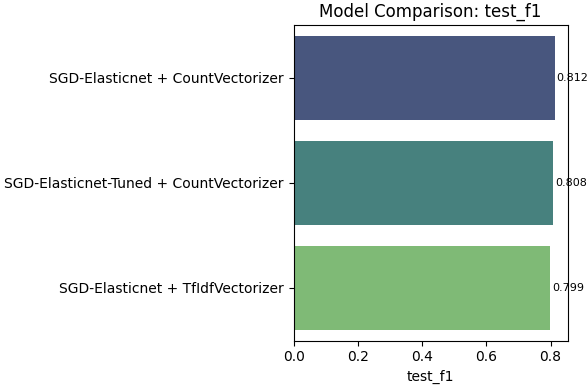
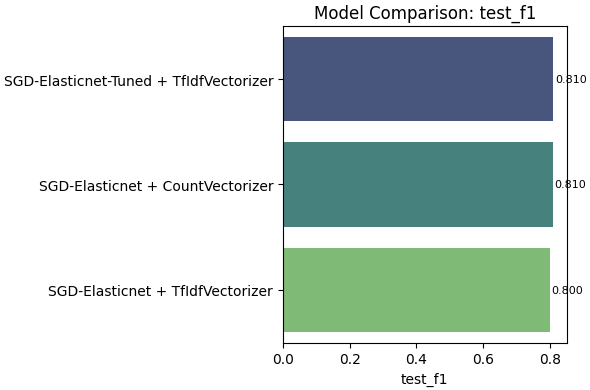
elasticNet: Update results, add inference & training time documentation

Changed region(s): [[0.0, 0.0, 1.0, 1.0]]

diff --git a/documentation.md b/documentation.md
@@ -168,33 +168,37 @@ The Elastic Net model was trained on the training set and evaluated on the test 
 
 ##### Precision
 
-The highest test precision was achived with a Count Vectorizer and SGDClassifier, and with the tuned hyperparameters. The precision of the different models ranged from 0.752 and 0.764.
+The highest test precision was achived with a Count Vectorizer and SGDClassifier, and with the tuned hyperparameters. The precision of the different models ranged from 0.750 and 0.773.
 
 <img src="resources/elasticNet_precision.png" height="300" />
 
 ##### Recall
 
-The highest test recall wias achived with the Count Vectorizer and the SGDClassifier. The model with the tuned hyperparameters achived a recall slightly lower than the model with the default hyperparameters. The recall of the different models ranged from 0.852 and 0.867.
+The highest test recall wias achived with the Count Vectorizer and the SGDClassifier. The model with the tuned hyperparameters achived a recall slightly lower than the model with the default hyperparameters. The recall of the different models ranged from 0.849 and 0.857.
 
 <img src="resources/elasticNet_recall.png" height="300" />
 
 ##### F1-Score
 
-The highest f1-score was achived with the Count Vectorizer and the SGDClassifier, without tuning the hyperparameters. The f1-score of the different models ranged from 0.799 and 0.812.
+The highest f1-score was achived with the Count Vectorizer and the SGDClassifier and the TF-IDF Vectorizer with a tuned SGDClassifier. The f1-score of the different models ranged from 0.8 and 0.81.
 
 <img src="resources/elasticNet_f1.png" height="300" />
 
 ##### Training Time
 
-TODO Text
+The training time of the different models show no significant differences and are close to the fastest model of the Bag-of-Words approach. This makes sense, as the models are close to the Bag-of-Words models, but with a different regularization technique.
+
+<img src="resources/elasticNet_training_time.png" height="300" />
 
 ##### Inference Time
 
-TODO Text
+The inference time is in a similar range as the inference time of the Bag-of-Words models, below one second for all models.
+
+<img src="resources/elasticNet_inference_time.png" height="300" />
 
 ##### Summary
 
-Among all tested configurations, the Count Vectorizer proved to be the better performing vectorization technique. The differences between the models were not significant, tuning the hyperparameters of the SGDClassifier did not lead to a significant improvement in performance. The best performing model was the SGDClassifier with Count Vectorization, achieving a precision of 0.764, a recall of 0.867 and an f1-score of 0.812.
+Among all tested configurations, the Count Vectorizer proved to be the better performing vectorization technique. The differences between the models were not significant, tuning the hyperparameters of the SGDClassifier did not lead to a significant improvement in performance. The best performing model was the SGDClassifier with Count Vectorization, achieving a precision of 0.773, a recall of 0.857 and an f1-score of 0.81.
 
 > The source code for the Elastic Net model can be found in the [elasticNet.ipynb](models/elasticNet.ipynb) notebook.
 
